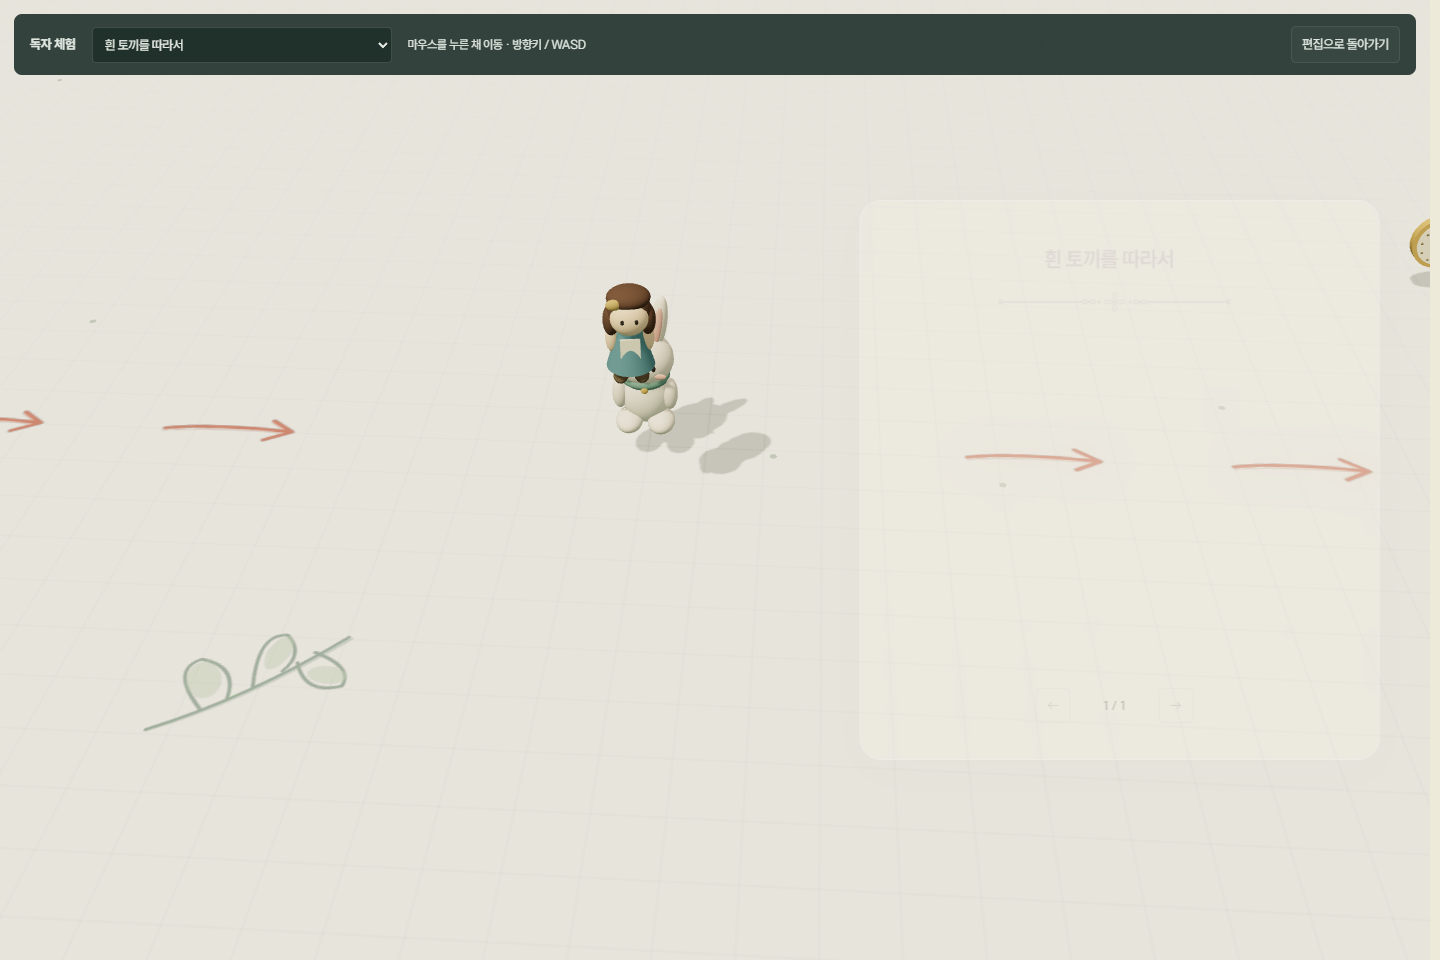
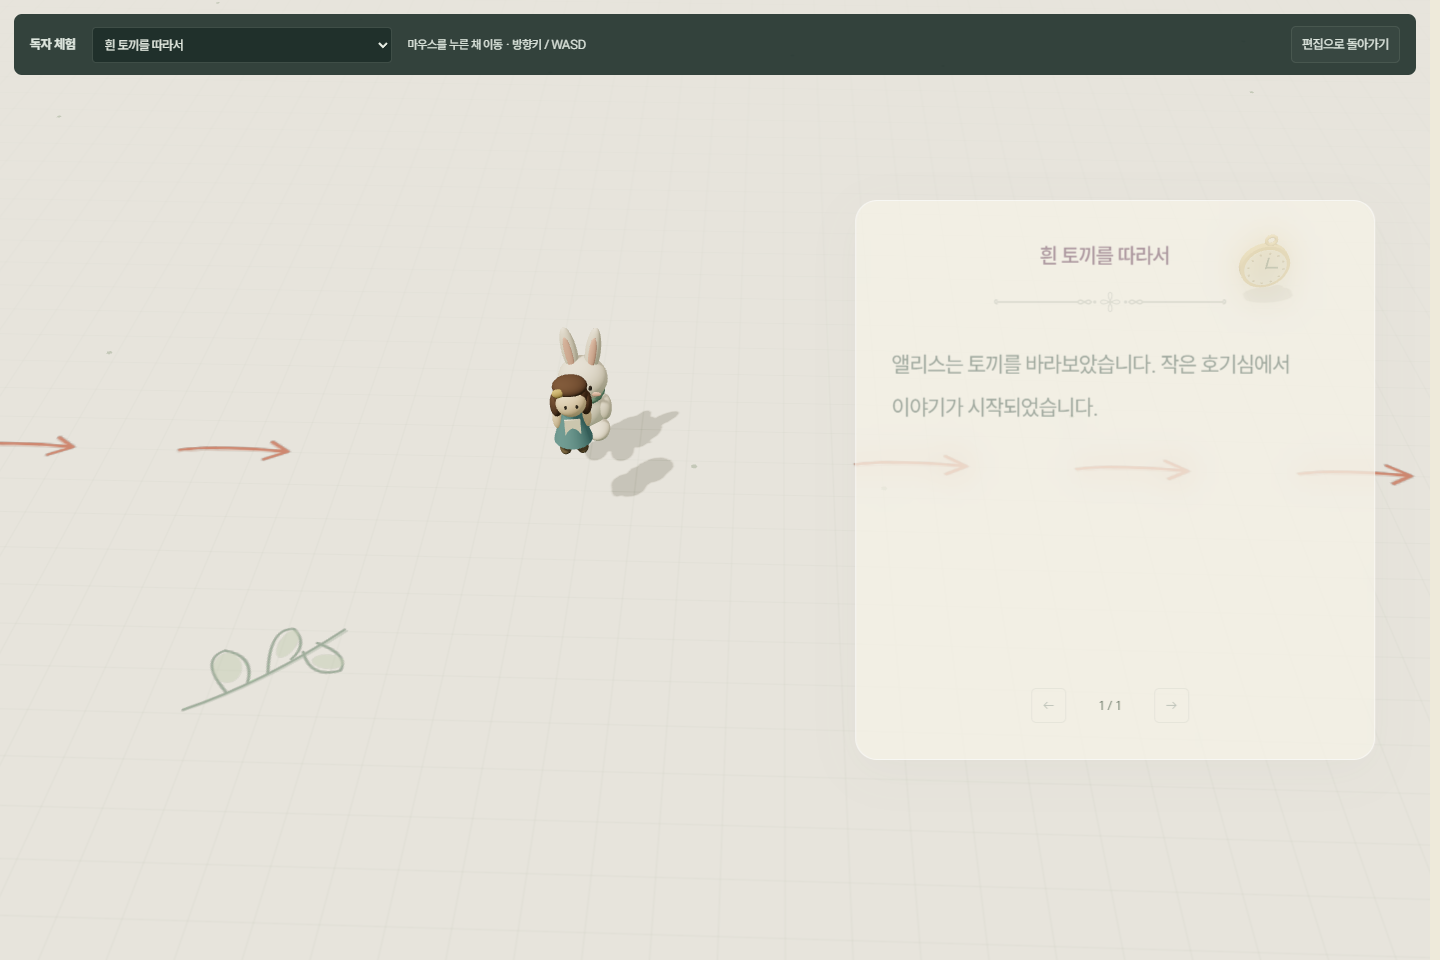
Keep Korean words whole in the 3D reading panel
The story text used word-break: normal, which lets Korean break between
any two syllables, so words were split across lines ("들여다보/았습니다",
"흰 토/끼가"). The panel's text and title now use keep-all, as the book
detail does; overflow-wrap still splits a single word longer than the
line. Pages are cut by character count, so paging is unchanged.

tests/floor-reading.mjs now checks that every word of the phone panel
sits on one line (it fails on the old rule), and the reading screenshots
it takes are refreshed.

diff --git a/shared/style.css b/shared/style.css
@@ -1203,8 +1203,10 @@ nav #about-link:hover {
   backdrop-filter: blur(14px); -webkit-backdrop-filter: blur(14px);
   box-shadow: 0 12px 45px #50604a0d; animation: reading-appear .45s ease-out;
 }
-.floor-reading-controls h2 { font-size: clamp(16px, 1.6vw, 23px); line-height: 1.5; margin: 14px 0; }
-.floor-reading-controls #floor-accessible { font-size: clamp(17px, 1.65vw, 25px); line-height: 1.85; white-space: pre-wrap; overflow-wrap: anywhere; word-break: normal; margin: 0; color: #354a3e; }
+/* Korean lines break between words only (keep-all), as on the book detail; overflow-wrap still splits a single word
+   longer than the line. word-break: normal broke Korean inside words ("들여다보/았습니다"). */
+.floor-reading-controls h2 { font-size: clamp(16px, 1.6vw, 23px); line-height: 1.5; margin: 14px 0; word-break: keep-all; overflow-wrap: anywhere; }
+.floor-reading-controls #floor-accessible { font-size: clamp(17px, 1.65vw, 25px); line-height: 1.85; white-space: pre-wrap; overflow-wrap: anywhere; word-break: keep-all; margin: 0; color: #354a3e; }
 .floor-pagination { display: flex; justify-content: center; align-items: center; gap: 12px; margin-top: 24px; padding-top: 10px; }
 @keyframes reading-appear { from { opacity: 0; translate: 10px 0; } to { opacity: 1; translate: 0 0; } }
 @media (max-width: 700px) {
